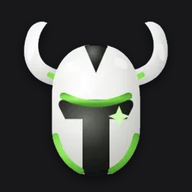
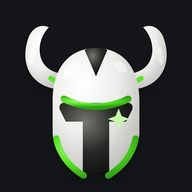
Icône HD depuis le fichier d'origine (3.23)
Claude-Session: https://claude.ai/code/session_01LUadX6u81nDzvxT2et2pU7

diff --git a/sw.js b/sw.js
@@ -1,7 +1,7 @@
 /* Garde l'app disponible hors ligne (les données viennent du cache Firestore).
    Réseau d'abord ; sans réseau, la dernière copie. Les pages (navigation) ne
    reçoivent aucune option de fetch : Android refuse une Request "navigate" modifiée. */
-const C="dago-gerant-v43",F=["./","index.html","app.js","fbx.min.js","config.js","manifest.webmanifest","icon-192.png","icon-512.png","icon-mask-512.png","icone-dago.svg","logo-sombre.svg","Inter.woff2","manrope-400.woff2","manrope-500.woff2","manrope-600.woff2","manrope-700.woff2","manrope-800.woff2","inter-tight-latin-700-normal.woff2","inter-tight-latin-800-normal.woff2"];
+const C="dago-gerant-v44",F=["./","index.html","app.js","fbx.min.js","config.js","manifest.webmanifest","icon-192.png","icon-512.png","icon-mask-512.png","icone-dago.svg","logo-sombre.svg","Inter.woff2","manrope-400.woff2","manrope-500.woff2","manrope-600.woff2","manrope-700.woff2","manrope-800.woff2","inter-tight-latin-700-normal.woff2","inter-tight-latin-800-normal.woff2"];
 self.addEventListener("install",e=>{e.waitUntil(caches.open(C).then(c=>Promise.all(F.map(f=>c.add(new Request(f,{cache:"reload"})).catch(()=>{})))));self.skipWaiting()});
 self.addEventListener("activate",e=>{e.waitUntil(caches.keys().then(k=>Promise.all(k.filter(x=>x!==C).map(x=>caches.delete(x)))).then(()=>self.clients.claim()))});
 self.addEventListener("fetch",e=>{const r=e.request,u=new URL(r.url);if(u.origin!==location.origin||r.method!=="GET")return;

diff --git a/app.js b/app.js
@@ -5,7 +5,7 @@
    Hors ligne : affiche les dernières données reçues.
    ===================================================================== */
 "use strict";
-const APP_VERSION="3.22 · 26/11";
+const APP_VERSION="3.23 · 26/11";
 const $=(s,r)=>(r||document).querySelector(s),$$=(s,r)=>[...(r||document).querySelectorAll(s)];
 const esc=s=>String(s??"").replace(/[&<>"']/g,c=>({"&":"&amp;","<":"&lt;",">":"&gt;",'"':"&quot;","'":"&#39;"}[c]));
 const fmtN=n=>Math.round(Number(n)||0).toLocaleString("fr-FR").replace(/ | /g," ");
